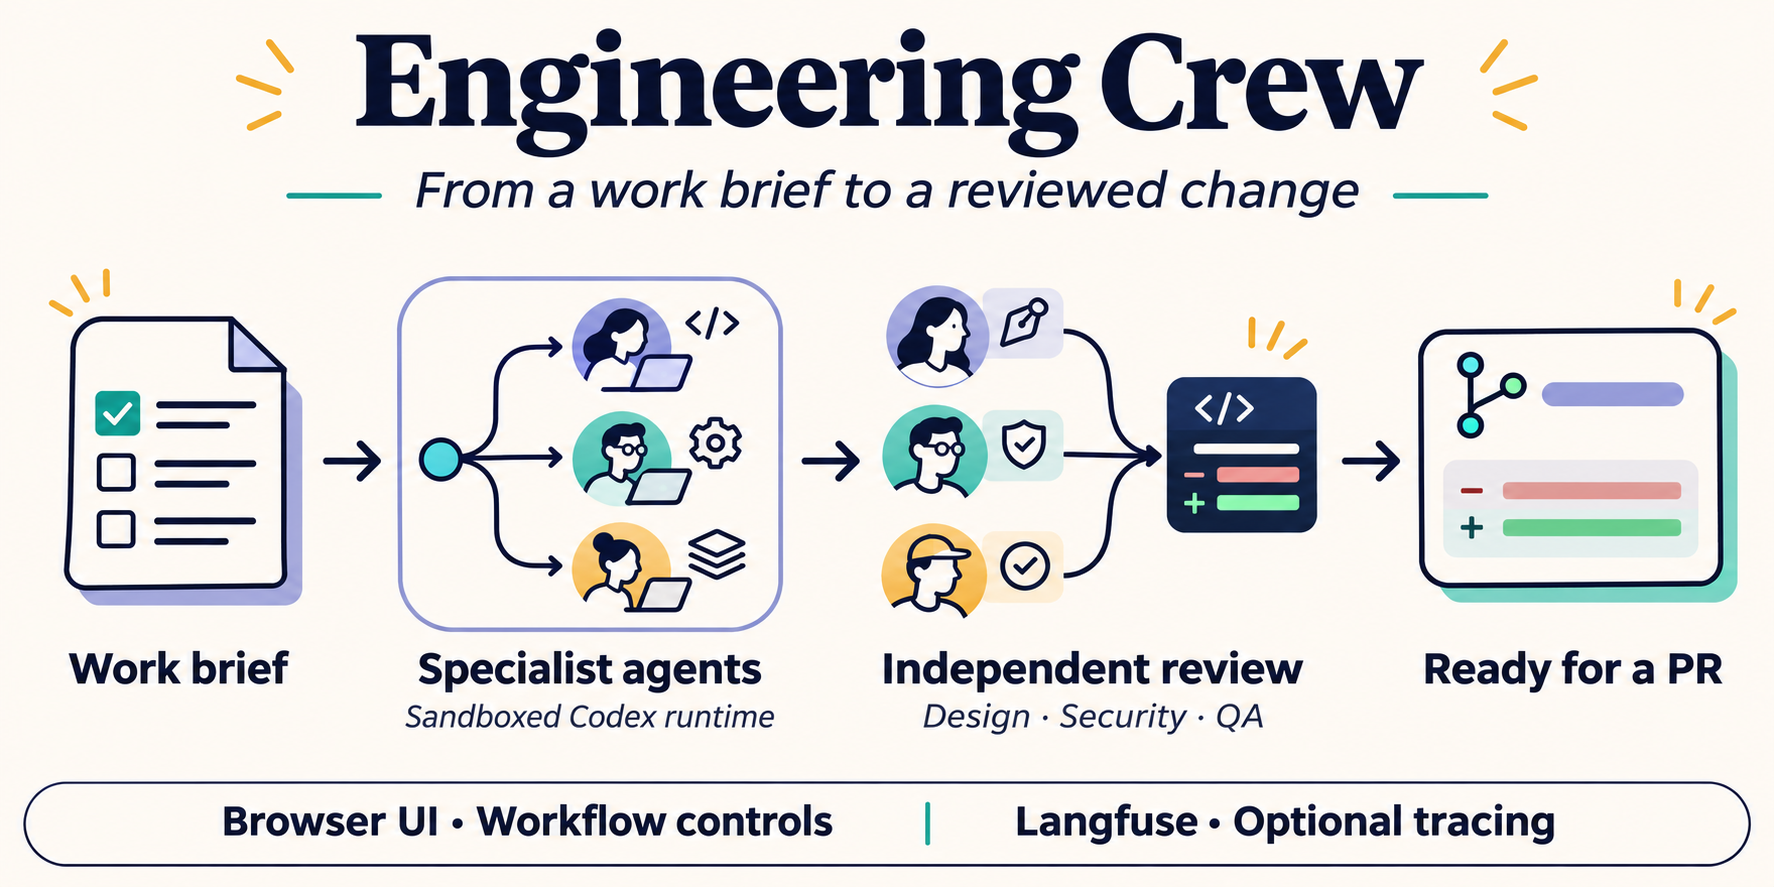
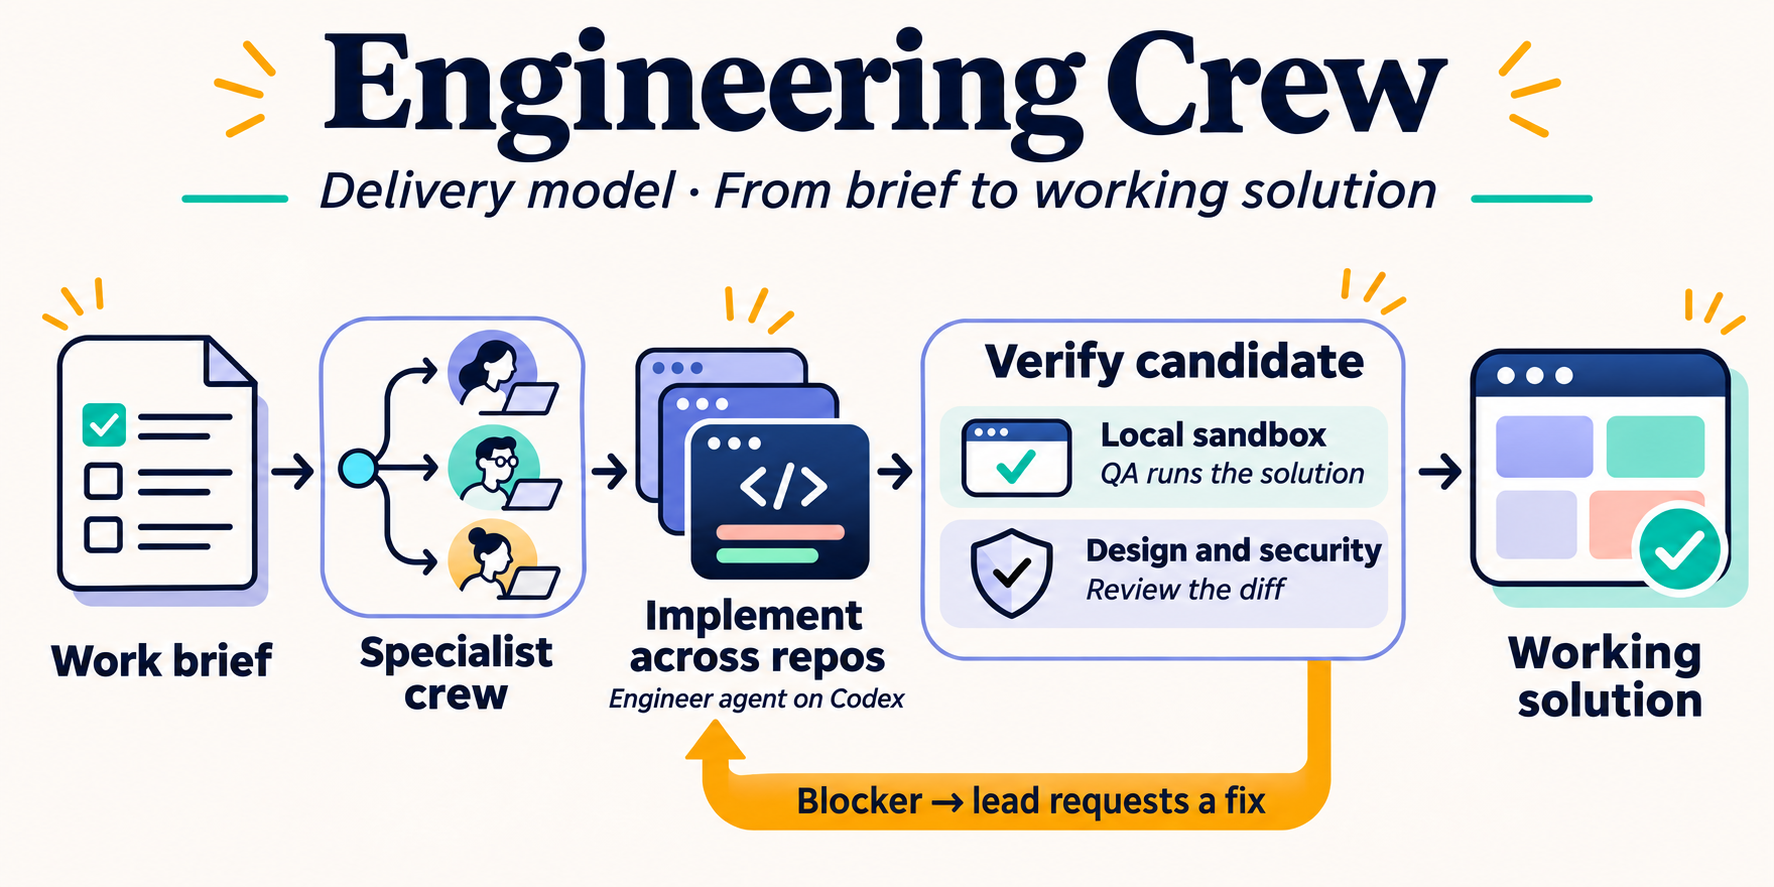
Explain the Crew delivery and verification model

diff --git a/README.md b/README.md
@@ -1,15 +1,30 @@
 # Engineering Crew
 
-Engineering Crew turns a work brief into a reviewed change you can open as a
-pull request. It splits the work into assignments for specialist agents, runs
-them in sandboxed Codex sessions, and brings in independent reviewers to check
-the same change from multiple angles.
+Engineering Crew coordinates specialist agents to turn a work brief into a
+working solution. The intended delivery model spans the repositories the
+solution needs, with QA running the result in a local sandbox before handoff.
 
-![Engineering Crew workflow. A work brief is split among specialist agents running in sandboxed Codex sessions. Independent reviewers check the change before pull request handoff. The browser UI provides workflow controls, and Langfuse provides optional tracing.](docs/engineering-crew-overview.png)
+![Delivery model. A specialist crew takes a brief and an engineer agent on Codex implements across repositories. QA runs the solution in a local sandbox while design and security review the changes. Blockers go back to the implementer for another round of verification.](docs/engineering-crew-overview.png)
 
-Define roles and handoffs in Git. Use the browser UI to dispatch tasks and
-follow reviews, with [optional Langfuse tracing](docs/langfuse.md) for a closer
-look.
+Codex runs the agent assignments. The engineer owns implementation, and design
+and security review the changes independently. When verification surfaces a
+blocker, the lead sends it back to the engineer and the crew checks the revised
+candidate.
+
+The current **Pet Store** pilot runs in a single checkout. Its catalog command
+demonstrates independent Docker QA. Its website demonstrates the design and
+security fix loop alongside a Docker source smoke test.
+
+## Configure, run, and trace
+
+![Git configuration defines roles, handoffs, and required checks. In the browser UI, dispatch tasks, inspect evidence, and accept handoffs or request rework. Optional CLI export to Langfuse gives the run links to verified traces.](docs/engineering-crew-controls.png)
+
+Define roles, handoffs, and checks in Git. Use the browser UI to dispatch
+assignments, inspect evidence, and accept handoffs or request rework. To drill
+into a selected attempt, publish its Codex receipt from the CLI and open the
+verified Langfuse link in the run. Optional activity capture can also include
+the prompt, response, and Docker results.
+[Langfuse setup](docs/langfuse.md)
 
 ## Run the pilot
 
